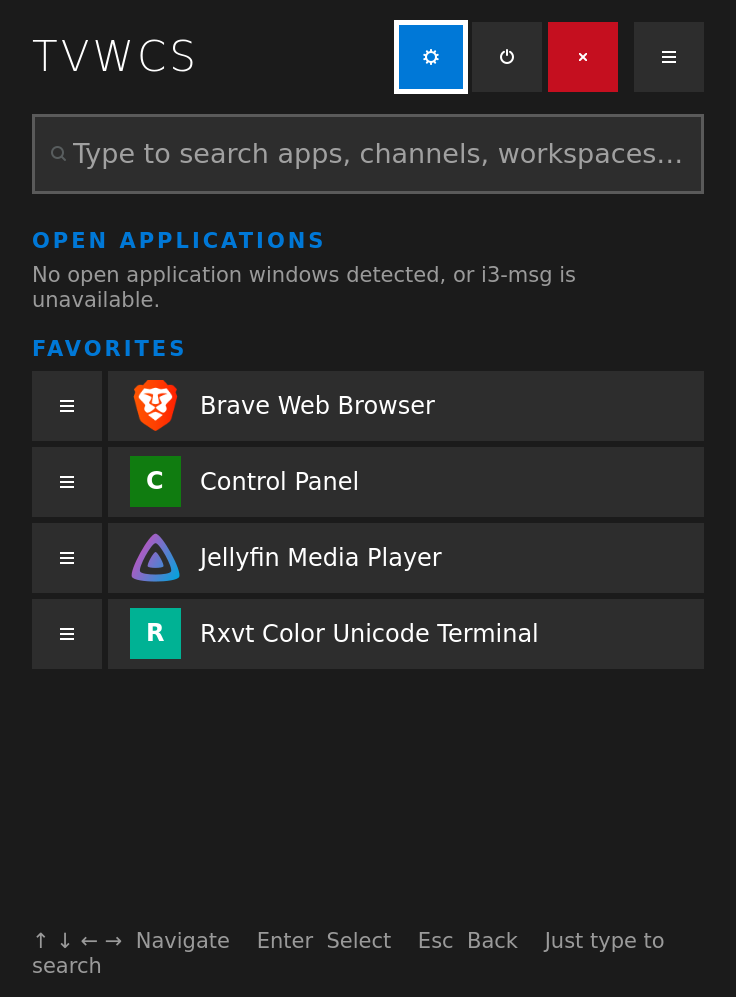
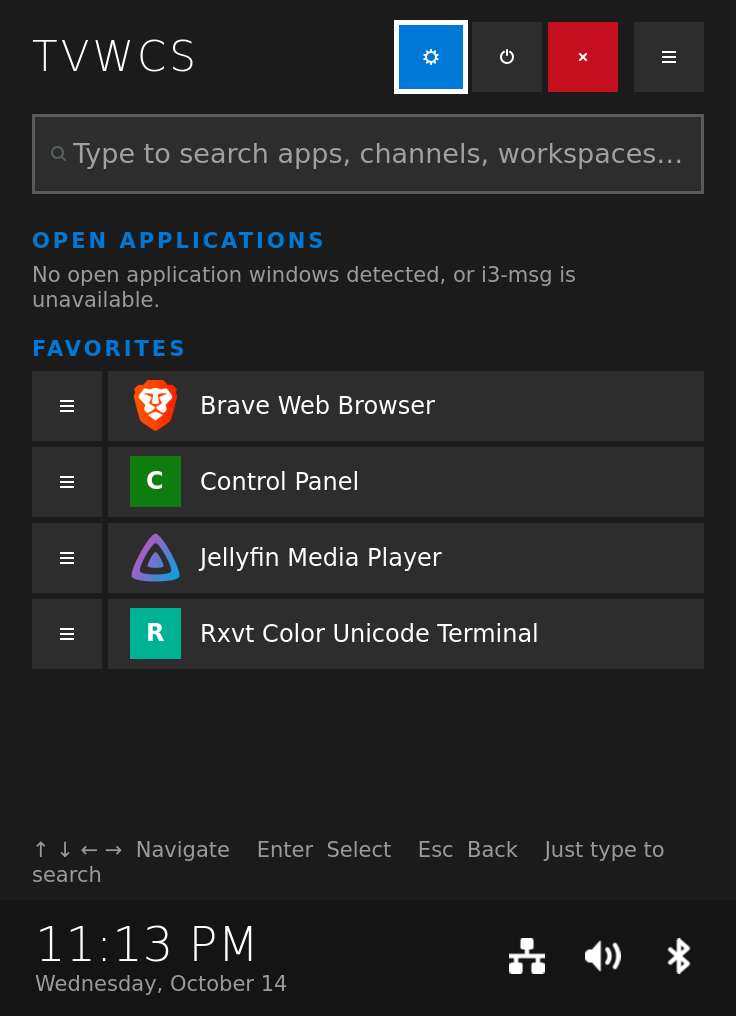
README: Quick Menu screenshots with the clock and status row

diff --git a/README.md b/README.md
@@ -24,7 +24,7 @@ TVWCS (TV Window Channel Switcher) is a remote-friendly, TV-style launcher and w
     <td valign="top"><img src="assets/guide-menu.png" alt="The Quick Menu with the Applications guide open beside it" width="100%"></td>
   </tr>
   <tr>
-    <td valign="top">The Quick Menu, a full-height column at the left of the screen. At the top, ⚙ opens Settings, ⏻ opens the power menu, the red ✕ closes it and ☰ opens Applications. Below the search field, <b>Open applications</b> lists what is running, by workspace (nothing is open here). <b>Favorites</b> are pinned apps; the ☰ beside a row, or ← on it, opens its options. The key hints are at the bottom.</td>
+    <td valign="top">The Quick Menu, a full-height column at the left of the screen. At the top, ⚙ opens Settings, ⏻ opens the power menu, the red ✕ closes it and ☰ opens Applications. Below the search field, <b>Open applications</b> lists what is running, by workspace (nothing is open here). <b>Favorites</b> are pinned apps; the ☰ beside a row, or ← on it, opens its options. Below them are the key hints, and at the very bottom the clock and date, then icons for the network, the volume and Bluetooth (and waiting updates, when there are any); each opens its page in Settings, and the clock opens Date and time.</td>
     <td valign="top">The Applications guide open beside the Quick Menu. <b>Channel Guide</b> lists the launch profiles that have a channel number (none yet here). <b>All applications</b> lists every installed app by category (Media, Internet, Utilities, System); Enter folds or opens a category. Each row shows the app's logo, its channel (— for none), name and description, then a favorite star (★ when it is a favorite) and an edit button (✎).</td>
   </tr>
   <tr>
